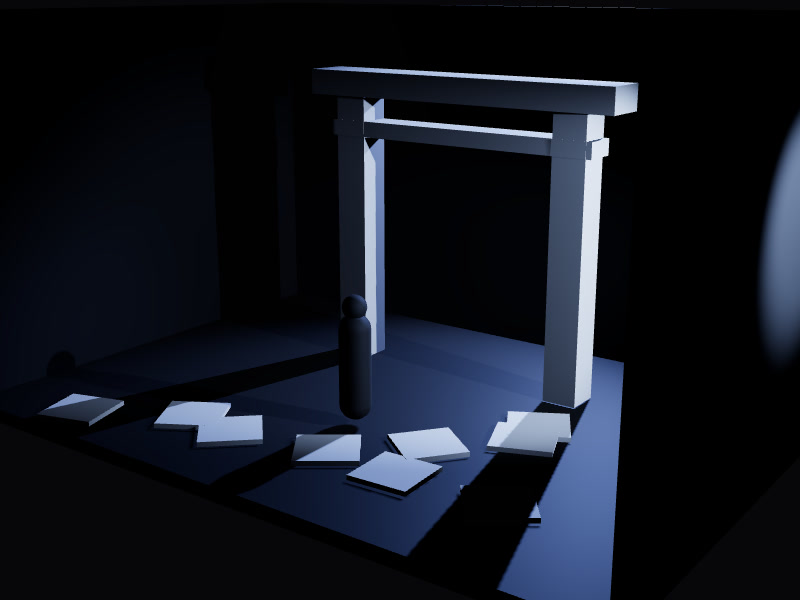
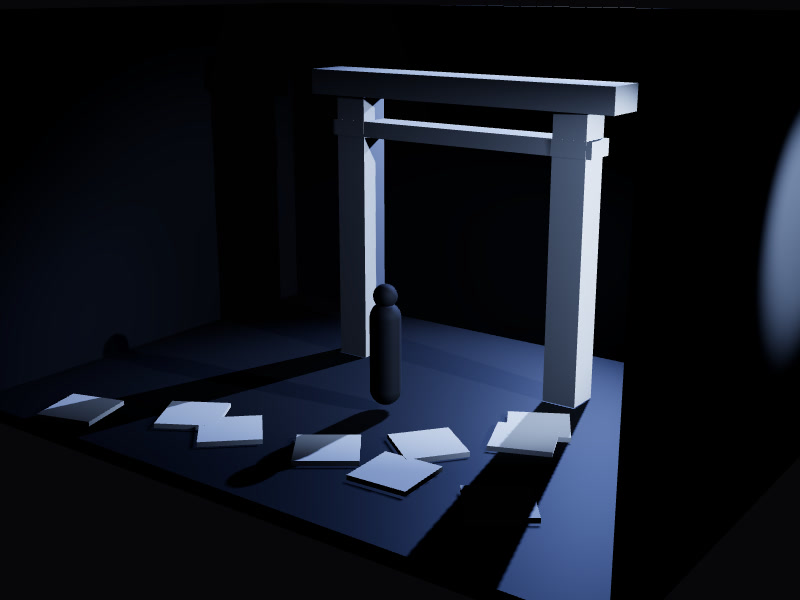
S05-04：照明家ポートフォリオを完成品（5.50）として保存し、審査で見つかった不具合を修正
2回目の審査で critical なし・数値ゲート合格。指摘されたスクロールの奪取（ホイール・スワイプ）、
矢印キーで回らない問題、階段に埋まった人形、入力欄の枠のコントラスト、和文の禁則を公開前に修正。

Claude-Session: https://claude.ai/code/session_01BwmUGTgfPEj1Tu5124aDtq

diff --git a/studio/projects/S05-04-lighting-site/site/viewer.js b/studio/projects/S05-04-lighting-site/site/viewer.js
@@ -10,7 +10,11 @@ export function mountViewer(el, { set = 'glass', cues, start = 0, still = false 
   const ctl = new OrbitControls(cam, R.domElement); ctl.target.set(0, .9, 0); ctl.enableDamping = true; ctl.enablePan = false;
   ctl.minDistance = 6; ctl.maxDistance = 13; ctl.minPolarAngle = .5; ctl.maxPolarAngle = 1.4; ctl.minAzimuthAngle = -.9; ctl.maxAzimuthAngle = .9;
   ctl.autoRotate = !matchMedia('(prefers-reduced-motion: reduce)').matches; ctl.autoRotateSpeed = .45;
-  R.domElement.tabIndex = 0; R.domElement.setAttribute('aria-label', '舞台模型。矢印キーまたはドラッグで回せます'); ctl.listenToKeyEvents(R.domElement); ctl.keyRotateSpeed = 1.2;
+  ctl.enableZoom = false; R.domElement.style.touchAction = 'pan-y';// ホイールと縦スワイプはページのスクロールに渡す
+  R.domElement.tabIndex = 0; R.domElement.setAttribute('aria-label', '舞台模型。左右の矢印キーまたは横ドラッグで回せます');
+  R.domElement.addEventListener('keydown', e => { const m = { ArrowLeft: [-.12, 0], ArrowRight: [.12, 0], ArrowUp: [0, -.08], ArrowDown: [0, .08] }[e.key]; if (!m) return; e.preventDefault();
+    const s = new THREE.Spherical().setFromVector3(cam.position.clone().sub(ctl.target)); s.theta = Math.min(.9, Math.max(-.9, s.theta + m[0])); s.phi = Math.min(1.4, Math.max(.5, s.phi + m[1]));
+    cam.position.setFromSpherical(s).add(ctl.target); ctl.autoRotate = false; ctl.update(); });
   // 模型の箱：黒い床と三方の壁（手前は開いた断面）
   const box = new THREE.MeshStandardMaterial({ color: 0x1b1a19, roughness: .85 });
   const floor = new THREE.Mesh(new THREE.BoxGeometry(6, .12, 4.2), new THREE.MeshStandardMaterial({ color: 0x24211e, roughness: .6 })); floor.position.y = -.06; floor.receiveShadow = true; scene.add(floor);
@@ -28,11 +32,12 @@ export function mountViewer(el, { set = 'glass', cues, start = 0, still = false 
   // 照明：キューごとに強さと色を持つ灯体
   const mk = (pos, tgt, color, angle) => { const l = new THREE.SpotLight(color, 0, 0, angle, .55, 2); l.position.set(...pos); l.target.position.set(...tgt); l.castShadow = true; l.shadow.mapSize.set(1024, 1024); l.shadow.bias = -.0004; scene.add(l, l.target); return l; };
   const L = { top: mk([0, 5.5, 1.5], [0, 0, -.2], 0xfff1df, .42), sideW: mk([-5, 2.2, .6], [0, .8, -.6], 0xffb46e, .42), sideC: mk([5, 2.6, -.4], [0, .8, -.6], 0x9fb9e8, .42), backL: mk([0, 4.2, -5], [0, .4, .4], 0x8fb0ff, .5), pin: mk([.6, 6, 3], [0, .4, .6], 0xffe6c8, .07) };
+  const FPt = { glass: [0, .5, .6], stairs: [1.6, 1.4, .4], gate: [0, .5, .2] }[set] || [0, .5, .6]; L.pin.position.set(FPt[0] + .6, 6, FPt[2] + 2.4); L.pin.target.position.set(...FPt);
   scene.add(new THREE.AmbientLight(0x404050, .25));
   // ピンスポットが当たる位置に立つ人のシルエット（最後のキューで「一人を立たせる」）
   const fig = new THREE.MeshStandardMaterial({ color: 0x2b2826, roughness: .7 }); const P = new THREE.Group();
   const body = new THREE.Mesh(new THREE.CapsuleGeometry(.13, .62, 6, 16), fig); body.position.y = .49; const head = new THREE.Mesh(new THREE.SphereGeometry(.1, 20, 14), fig); head.position.y = .98;
-  P.add(body, head); P.traverse(o => { if (o.isMesh) o.castShadow = o.receiveShadow = true; }); P.position.set(0, 0, .6); scene.add(P);
+  P.add(body, head); P.traverse(o => { if (o.isMesh) o.castShadow = o.receiveShadow = true; }); const FP = { glass: [0, 0, .6], stairs: [1.6, .93, .4], gate: [0, 0, .2] }[set] || [0, 0, .6]; P.position.set(...FP); scene.add(P);
   const cur = {}, from = {}; let to = cues[start].v, t0 = 0, tween = 1; const KEYS = Object.keys(L);
   for (const k in L) cur[k] = to[k] || 0;
   const apply = () => { for (const k in L) L[k].intensity = cur[k]; };

diff --git a/studio/projects/S05-04-lighting-site/site/style.css b/studio/projects/S05-04-lighting-site/site/style.css
@@ -1,6 +1,6 @@
 :root{--bg:#07070a;--ink:#ece6dc;--sub:#a59c8f;--line:#2a2724;--warm:#f2c38b;--cool:#a9c2e6}
 *{box-sizing:border-box;margin:0;padding:0}
-html{background:var(--bg);color:var(--ink);font:400 16px/1.9 "Noto Sans JP",system-ui,sans-serif;-webkit-font-smoothing:antialiased}
+html{line-break:strict;word-break:auto-phrase;background:var(--bg);color:var(--ink);font:400 16px/1.9 "Noto Sans JP",system-ui,sans-serif;-webkit-font-smoothing:antialiased}
 a{color:inherit;text-decoration:none}
 .mincho{font-family:"Shippori Mincho",serif;font-weight:600}
 header{position:fixed;inset:0 0 auto 0;z-index:10;display:flex;justify-content:space-between;align-items:center;padding:20px clamp(16px,5vw,56px);background:linear-gradient(#07070acc,#07070a00)}
@@ -30,7 +30,7 @@ dl.career{display:grid;grid-template-columns:7em 1fr;gap:10px 24px;max-width:760
 dl.career dt{color:var(--sub);font-variant-numeric:tabular-nums}
 .contact{display:grid;gap:18px;max-width:560px}
 .contact label{font-size:13px;color:var(--sub);letter-spacing:.12em;display:grid;gap:8px}
-.contact input,.contact textarea,.contact select{font:inherit;color:var(--ink);background:#ffffff06;border:1px solid #5f5850;border-radius:4px;padding:12px 14px}
+.contact input,.contact textarea,.contact select{font:inherit;color:var(--ink);background:#ffffff06;border:1px solid #6e665c;border-radius:4px;padding:12px 14px}
 .contact button{justify-self:start;font:500 14px/1 "Noto Sans JP",sans-serif;letter-spacing:.2em;padding:16px 28px;border-radius:999px;border:0;background:var(--warm);color:#120d08;cursor:pointer}
 footer{border-top:1px solid var(--line);padding:32px clamp(16px,5vw,56px);font-size:12px;color:var(--sub);letter-spacing:.1em;display:flex;justify-content:space-between;flex-wrap:wrap;gap:8px}
 .note{font-size:12px;color:#9a9285;margin-top:2em}
@@ -41,3 +41,4 @@ footer{border-top:1px solid var(--line);padding:32px clamp(16px,5vw,56px);font-s
 body.clean header,body.clean .cap,body.clean .cues,body.clean .stage::after,body.clean section,body.clean footer{display:none}
 header nav a{padding:12px 8px;display:inline-block}
 .stage canvas:focus-visible{outline:2px solid var(--cool);outline-offset:-4px}
+@media (max-width:640px){.stage{height:82svh;min-height:520px}}

diff --git a/studio/projects/S05-04-lighting-site/site/index.html b/studio/projects/S05-04-lighting-site/site/index.html
@@ -3,7 +3,7 @@
 <link rel="preconnect" href="https://fonts.googleapis.com"><link href="https://fonts.googleapis.com/css2?family=Shippori+Mincho:wght@600&family=Noto+Sans+JP:wght@400;500&display=swap" rel="stylesheet">
 <link rel="stylesheet" href="style.css">
 <script type="importmap">{"imports":{"three":"https://cdn.jsdelivr.net/npm/three@0.160.0/build/three.module.js","three/addons/":"https://cdn.jsdelivr.net/npm/three@0.160.0/examples/jsm/"}}</script></head><body>
-<header><a class="logo" href="index.html">灯野 慧</a><nav aria-label="メイン"><a href="index.html" aria-current="page">模型</a><a href="works.html">作品</a><a href="about.html">経歴</a><a href="contact.html">依頼</a></nav></header><main><div class="stage" id="stage" aria-label="舞台模型の3Dビュー（ドラッグで回転）">
+<header><a class="logo" href="index.html">灯野 慧</a><nav aria-label="メイン"><a href="index.html" aria-current="page">模型</a><a href="works.html">作品</a><a href="about.html">経歴</a><a href="contact.html">依頼</a></nav></header><main><div class="stage" id="stage" aria-label="舞台模型の3Dビュー（横ドラッグまたは矢印キーで回転）">
 <div class="cap"><div class="kicker">LIGHTING DESIGN — 灯野 慧</div><h1 class="mincho" id="ttl">光は、<br>時間を描く</h1><p id="desc">『硝子の庭』（灯守座／2026）の舞台模型。下のキューを押すと、本番と同じ順番で明かりが変わります。</p></div>
 <div class="cues" role="group" aria-label="照明キュー" id="cues"></div></div>
 <section><h2 class="mincho">照明の考え方</h2><p class="lead">明かりは、役者の顔を照らすためだけのものではありません。時刻、温度、記憶。舞台の上の時間を、光の角度と色で描きます。模型の段階から光を当て、稽古場に入る前にキューの半分を決めておくのが、私の進め方です。</p>

diff --git a/studio/knowledge/playbook.md b/studio/knowledge/playbook.md
@@ -492,3 +492,4 @@ SKILL の「テスト」が手順 1〜6、「制作」が手順 7〜10 にあた
 - S09-06 暗転の一拍（5.71）：同じ椅子のモデルと「比べる→無音の暗転→点灯」の型を3作続けると、not_a_rerun で no になる。次の S09 では主役を替え、画角も30°以上回す。暗い待ちの画は、カメラが動いていても freezedetect に静止と判定される。地明かりを2拍周期でわずかに明滅させると判定が消える。ただし明滅の谷で blackdetect にかかるので、谷でも明るい部分が画面の3%以上残るようにする。「同じカット」と言うなら、暗転以外の条件（待ち時間・保持時間・寄り）も揃える
 - S07-05 鉄瓶「霰」（4.71→5.14、合格未満）：文字の安全域は top の値ではなく「top＋行の高さ」で下端を測る（36px の行を top 1470 に置くと下端 1510 で critical）。書き出す前に、全テキストの getBoundingClientRect を render 時に記録して自動で確かめる仕組みが要る。同じ「9〜10秒の無音の暗転→10秒で明転」の骨格を4作続けると not_a_rerun で落ちる。製品リビールでは別の見せ場（光の筋に湯気が入る瞬間など）を作る。主役の素材が場面ごとに違う色に見えると finish_texture が下がる（露出と光色を揃える）
 - S01-06 追加公演の告知（4.57→5.00）：白い薄板を光の代わりに置くと罫線に見える。漏れ光は本物のスポットと光の筋で作る（光源を床すれすれに置くとホットスポットになるので、少し上と奥に置く）。暗い赤の緞帳は正面から狭い角度で照らさないと黒味判定になる。ffmpeg で音を足して再エンコードするときに -shortest を付けると、映像が数フレーム短くなることがある（フレーム数を確かめる）。グレインを足すと crf 18 では 15 秒で 77MB になり、管理アプリに上げられない（上限 20MB）。-maxrate 8M で抑える。S01 は「硝子の林＋10秒の一打で明転」が4作続いているので、次の S01 はこの型を使わない
+- S05-04 照明家のポートフォリオ（5.33→5.50）：three.js の OrbitControls をページのヒーローに置くと、スマホの縦スワイプと PC のホイールを奪ってページがスクロールしなくなる（enableZoom=false と touch-action:pan-y が必要）。r160 の OrbitControls は enablePan=false だとキー操作も捨てるので、矢印キーの回転は自前で書く。方位角を制限しないと、カメラが模型の箱の外に出る。Web の数値ゲートは、コントラスト 4.5:1（部品の枠は 3:1）、タップ領域 44px、文字と部品の重なり、横スクロールなし、コンソールエラー 0

diff --git a/studio/works/pass/S05-04/README.md b/studio/works/pass/S05-04/README.md
@@ -1,0 +1,21 @@
+# S05-04 照明家・灯野 慧（架空）のポートフォリオサイト — 完成品（5.50）
+
+- 等級: 完成品
+  - 1回目の審査は 5.33（合格未満）。数値ゲートを3つ落とした（注記のコントラスト、スマホのナビのタップ領域、スマホで説明文とボタンが重なる）。
+  - 直した版を新しい審査員が見て 5.50。critical なし、数値ゲート（Web 版）合格。
+- 本体: `studio/projects/S05-04-lighting-site/site/`（模型・作品・経歴・依頼の4ページ、レスポンシブ）
+- 公開: https://raw.githack.com/tenrouyorozuya23-source/yorozuya-tenro-apps/studio-autopilot/studio/projects/S05-04-lighting-site/site/index.html
+- 見せ場:
+  - 作品ごとの舞台模型を three.js で回せる（左右 ±50° の範囲。横ドラッグか矢印キー）。
+  - 「Q1 地明かり／Q2 夕景／Q3 月光／Q4 ピン」のキューで明かりが切り替わる。照明卓と同じく、上げ 1.2 秒・下げ 0.8 秒で、灯体ごとに 120ms ずつずらす。
+  - 最後の Q4 ピンで、人のシルエット1体を立たせる。
+- 審査のあとに直した不具合（2回目の審査で指摘されたもの）:
+  - スマホのスワイプと PC のホイールが模型に取られて、ページが下へスクロールしなかった。ズームを切り、縦方向の操作をスクロールに渡した。
+  - 矢印キーで模型が回らなかった（three r160 の OrbitControls は、パンを切るとキー入力を捨てる）。キー操作を自前で書いた。
+  - 夜鳴きの館で、人形が階段の装置に埋まっていた。踊り場の上に置き、ピンもそこへ向けた。
+  - 入力欄の枠のコントラストを 3:1 以上にした。和文の禁則を指定した（line-break:strict、word-break:auto-phrase）。
+- 次に直すなら:
+  - ピンの前に 0.4 秒の暗転を挟む。
+  - 光の筋（ハゼ）を足す。
+  - 硝子に映り込みを足す。
+  - 経歴ページに絵を入れる。
